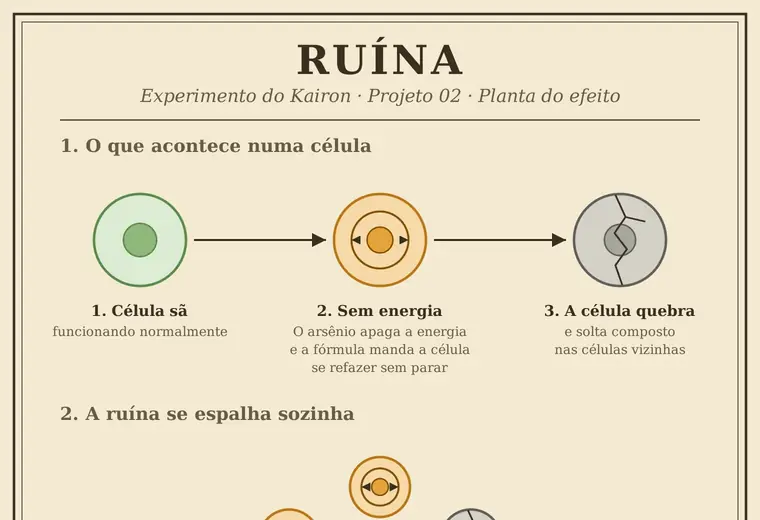
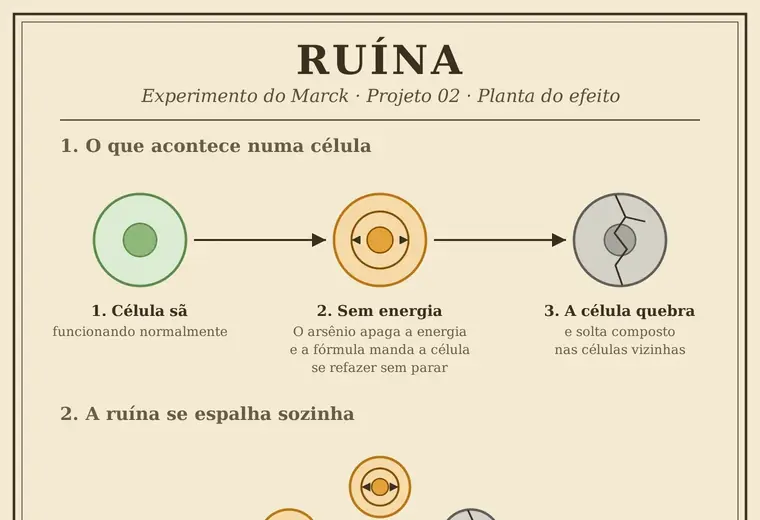
Livro de invenções sem o nome Kairon: textos trocados por Marck e cópias das plantas 02 e 04 sem o nome
O gerador troca Kairon por Marck e para com erro se o nome (ou Flagon) ainda aparecer.
A ficha não muda. Também evita virar página com um arrasto curto e rápido.

Claude-Session: https://claude.ai/code/session_01JaZPSxNdYSyuAWuxwH5iqS

diff --git a/livro/index.html b/livro/index.html
@@ -9,7 +9,7 @@
 <link rel="preconnect" href="https://fonts.googleapis.com">
 <link rel="preconnect" href="https://fonts.gstatic.com" crossorigin>
 <link href="https://fonts.googleapis.com/css2?family=EB+Garamond:ital,wght@0,400;0,500;0,600;1,400;1,500&amp;family=IM+Fell+English:ital@0;1&amp;family=IM+Fell+English+SC&amp;display=swap" rel="stylesheet">
-<link rel="stylesheet" href="livro.css?v=1">
+<link rel="stylesheet" href="livro.css?v=2">
 <script>document.documentElement.classList.add('js')</script>
 </head>
 <body>
@@ -28,7 +28,7 @@
 </div>
 <p class="corpo inicial">Em repouso, a Giftklaue é uma luva de couro escuro, simples, sem nada que chame atenção além de um punho um pouco mais grosso que o normal. Quem olha vê só a luva de um cientista. Ao acionar o mecanismo do punho, placas de aço leve e bronze deslizam pra fora do antebraço, cobrem a mão e o braço, e a luva vira uma manopla blindada, com garras ocas de aço saindo das pontas dos dedos. Tudo acontece num movimento só. O contrário também vale: as placas recolhem e o usuário volta a parecer inofensivo.</p>
 <p class="corpo">Pelo antebraço correm tubos de vidro grosso, escolhidos porque o vidro aguenta o veneno que o metal não aguenta. Cada golpe das garras injeta o conteúdo no alvo, como a presa de uma cobra. O protótipo atual carrega um veneno de luta, que deixa o corpo dormente e derruba os atributos físicos.</p>
-<p class="corpo curto">O protótipo ainda não está pronto. Kairon trabalha em quatro melhorias:</p>
+<p class="corpo curto">O protótipo ainda não está pronto. O Marck trabalha em quatro melhorias:</p>
 <ul class="pontos">
 <li><strong>Hidráulica:</strong> pistões nos dedos e no antebraço pra dar à manopla a força que ele não tem. A força vem da manopla, não do corpo.</li>
 <li><strong>Dardos:</strong> agulhas de veneno que saltam dos dedos e acertam à distância, cada uma com uma dose selada.</li>
@@ -125,18 +125,18 @@
 <section class="cap parte" id="parte-2" data-tipo="parte" data-titulo="Parte II · Venenos"><div class="fluxo"><div class="parte-capa"><p class="parte-n">Parte II</p><div class="orn" aria-hidden="true"><i></i></div><h2 class="parte-nome">Venenos</h2><p class="parte-desc">O que corre pelos tubos.</p></div></div></section>
 <section class="cap capitulo" id="cap-02" data-tipo="capitulo" data-n="02" data-titulo="Ruína"><div class="fluxo">
 <header class="cap-cab"><p class="cap-n">Projeto 02</p><h2 class="cap-nome">Ruína</h2><div class="orn" aria-hidden="true"><i></i></div><p class="cap-meta"><span class="estado est-andamento">Em andamento</span><span class="sep" aria-hidden="true"> · </span><time datetime="2026-10-20">Criado em 20/10/2026</time></p><p class="selo"><span class="carimbo aprovado">Aprovado pelo mestre</span></p></header>
-<p class="nota">Experimento do Kairon, em andamento</p>
-<p class="corpo inicial">Os outros viam um remédio. Kairon viu uma ferramenta.</p>
-<p class="corpo">A droga da doutora estava na enfermaria da base, e ele passava por lá mais do que precisava. Não era pelos doentes. Era pra ouvir. Quando o remédio entrava, as células do paciente recebiam a ordem de se refazer numa velocidade que nenhum corpo foi feito pra suportar, e o homem na maca gritava como se o costurassem por dentro com agulha em brasa. As enfermeiras desviavam o olhar. Kairon abria o caderno e anotava o tempo entre um grito e outro.</p>
+<p class="nota">Experimento do Marck, em andamento</p>
+<p class="corpo inicial">Os outros viam um remédio. Marck viu uma ferramenta.</p>
+<p class="corpo">A droga da doutora estava na enfermaria da base, e ele passava por lá mais do que precisava. Não era pelos doentes. Era pra ouvir. Quando o remédio entrava, as células do paciente recebiam a ordem de se refazer numa velocidade que nenhum corpo foi feito pra suportar, e o homem na maca gritava como se o costurassem por dentro com agulha em brasa. As enfermeiras desviavam o olhar. Marck abria o caderno e anotava o tempo entre um grito e outro.</p>
 <p class="corpo">Todos ali queriam que a dor parasse. Ele queria saber por que ela existia. E quanto mais perguntava, mais uma ideia se fechava na cabeça dele, limpa e fria: a fórmula não curava ninguém. Ela só empurrava a vida da célula pra frente, mais rápido do que a célula aguentava. A cura era um efeito colateral de uma força que ele podia apontar pro outro lado.</p>
-<p class="corpo">O arsênio já fazia metade do trabalho. Ele não rasga nem queima por fora. Entra quieto e apaga a energia da célula por dentro. Agora imagine essa célula, sem fôlego, recebendo a ordem de se reconstruir sem parar. Kairon imaginou, e riu sozinho na bancada, às três da manhã, com a mão tremendo de empolgação. Não lembrava da última vez que tinha comido.</p>
+<p class="corpo">O arsênio já fazia metade do trabalho. Ele não rasga nem queima por fora. Entra quieto e apaga a energia da célula por dentro. Agora imagine essa célula, sem fôlego, recebendo a ordem de se reconstruir sem parar. Marck imaginou, e riu sozinho na bancada, às três da manhã, com a mão tremendo de empolgação. Não lembrava da última vez que tinha comido.</p>
 <p class="corpo">Ele sabia o que aquilo era. Conhecimento era a única coisa que ele não conseguia largar. Projeto, projeto, projeto. Cada resposta abria duas perguntas, e ele precisava da próxima como outros homens precisam da próxima dose. Se alguém dissesse que ele estava viciado, concordaria sem vergonha nenhuma.</p>
 <p class="corpo">O resultado, no papel dele, é uma morte que começa pequena. A pele em volta do corte fica cinza e cede. O corpo enfraquece, o osso perde a firmeza, e por fim a medula, onde o sangue nasce, para de responder. Cada célula que cai solta o próprio veneno sobre as vizinhas. Não precisa de segunda dose. A ruína anda sozinha.</p>
-<p class="corpo">Ele tentou levar aquilo pro ar, um gás pras trincheiras. No ar, o composto se desmanchava antes de chegar a alguém, e Kairon passou duas noites sem falar com ninguém, furioso com um problema que se recusava a obedecer. Foi quando olhou pras garras das manoplas e entendeu que a resposta sempre esteve ali: levar o veneno direto à carne, sem dar tempo dele se perder.</p>
-<p class="corpo">Alguém poderia perguntar quantos teriam que cair até ele aprender o que queria. Kairon nunca fez essa conta. Não por descuido. O número simplesmente não mudava a resposta.</p>
+<p class="corpo">Ele tentou levar aquilo pro ar, um gás pras trincheiras. No ar, o composto se desmanchava antes de chegar a alguém, e Marck passou duas noites sem falar com ninguém, furioso com um problema que se recusava a obedecer. Foi quando olhou pras garras das manoplas e entendeu que a resposta sempre esteve ali: levar o veneno direto à carne, sem dar tempo dele se perder.</p>
+<p class="corpo">Alguém poderia perguntar quantos teriam que cair até ele aprender o que queria. Marck nunca fez essa conta. Não por descuido. O número simplesmente não mudava a resposta.</p>
 <p class="corpo">Restam três coisas que ele ainda anota: o arsênio corrói os tubos, então o composto não pode esperar guardado por muito tempo; o efeito completo leva dias; e a velocidade que ele quer só vem com um catalisador arcano que ele ainda não domina. Antídoto não existe, e não é a prioridade dele.</p>
 <p class="corpo">Na última página do caderno, com a letra apertada de quem não dorme, tem uma única frase sublinhada duas vezes: falta pouco.</p>
-<figure class="prancha"><a class="prancha-abrir" href="../img/planta-02-ruina.webp" target="_blank" rel="noopener" data-titulo="Planta desenhada do Projeto 02, Ruína"><img src="mini/planta-02-ruina.webp" width="760" height="520" loading="lazy" decoding="async" alt="Planta desenhada do Projeto 02, Ruína"></a><figcaption>Planta do projeto. <span class="dica">Toque pra abrir a prancha.</span></figcaption></figure>
+<figure class="prancha"><a class="prancha-abrir" href="pranchas/planta-02-ruina.webp" target="_blank" rel="noopener" data-titulo="Planta desenhada do Projeto 02, Ruína"><img src="mini/planta-02-ruina.webp" width="760" height="520" loading="lazy" decoding="async" alt="Planta desenhada do Projeto 02, Ruína"></a><figcaption>Planta do projeto. <span class="dica">Toque pra abrir a prancha.</span></figcaption></figure>
 <p class="pendente">Efeitos e tempos pendentes de aprovação do mestre</p>
 </div></section>
 <section class="cap capitulo" id="cap-03" data-tipo="capitulo" data-n="03" data-titulo="Veneno de luta"><div class="fluxo">
@@ -170,7 +170,7 @@
 <section class="cap parte" id="parte-3" data-tipo="parte" data-titulo="Parte III · Equipamento de campo"><div class="fluxo"><div class="parte-capa"><p class="parte-n">Parte III</p><div class="orn" aria-hidden="true"><i></i></div><h2 class="parte-nome">Equipamento de campo</h2><p class="parte-desc">O que ele leva pra rua.</p></div></div></section>
 <section class="cap capitulo" id="cap-07" data-tipo="capitulo" data-n="07" data-titulo="Bomba de fumaça"><div class="fluxo">
 <header class="cap-cab"><p class="cap-n">Projeto 07</p><h2 class="cap-nome">Bomba de fumaça</h2><p class="cap-sub">pra despistar e fugir</p><div class="orn" aria-hidden="true"><i></i></div><p class="cap-meta"><span class="estado est-uso">Em uso</span><span class="sep" aria-hidden="true"> · </span><time datetime="2026-10-30">Criado em 30/10/2026</time></p><p class="selo"><span class="carimbo aprovado">Aprovado pelo mestre</span></p></header>
-<p class="nota">Invenção do Kairon, feita de sucata</p>
+<p class="nota">Invenção do Marck, feita de sucata</p>
 <p class="corpo inicial">A bomba é uma lata de latão grosso, de sucata do ferro-velho. A tampa é rosqueada e fecha a lata, e tem furos em círculo, pra fumaça sair por todos os lados.</p>
 <p class="corpo">A fumaça arde nos olhos e na garganta. Quem entra tosse e sai correndo, sem saber pra onde. Não mata, e o vento muda tudo. O Marck testa de máscara de gás, com o vento a favor.</p>
 <figure class="prancha"><a class="prancha-abrir" href="../img/planta-07-bomba-de-fumaca.webp" target="_blank" rel="noopener" data-titulo="Planta desenhada do Projeto 07, Bomba de fumaça: a lata, a tampa com furos e o efeito da fumaça"><img src="mini/planta-07-bomba-de-fumaca.webp" width="760" height="520" loading="lazy" decoding="async" alt="Planta desenhada do Projeto 07, Bomba de fumaça: a lata, a tampa com furos e o efeito da fumaça"></a><figcaption>A lata, a tampa e o efeito da fumaça. <span class="dica">Toque pra abrir a prancha.</span></figcaption></figure>
@@ -178,7 +178,7 @@
 </div></section>
 <section class="cap capitulo" id="cap-09" data-tipo="capitulo" data-n="09" data-titulo="Mochila alquímica"><div class="fluxo">
 <header class="cap-cab"><p class="cap-n">Projeto 09</p><h2 class="cap-nome">Mochila alquímica</h2><p class="cap-sub">kit de campo</p><div class="orn" aria-hidden="true"><i></i></div><p class="cap-meta"><span class="estado est-andamento">Em andamento</span><span class="sep" aria-hidden="true"> · </span><time datetime="2026-10-31">Criado em 31/10/2026</time></p><p class="selo"><span class="carimbo">Pendente de aprovação do mestre</span></p></header>
-<p class="nota">Kit de campo do Kairon. O que está tracejado na planta é proposta</p>
+<p class="nota">Kit de campo do Marck. O que está tracejado na planta é proposta</p>
 <p class="corpo inicial">É uma mochila de couro curtido e lona encerada, com aba de duas fivelas de latão e uma alça de mão. Por fora tem o bolso dos tubos de reserva da garra, o bolso do tripé e da lamparina e uma esteira de campo enrolada embaixo.</p>
 <p class="corpo">Aberta, tem o porta-tubos da garra, uma bandeja de madeira dobrável que vira bancada de campo, um estojo de reagentes com frascos de vidro âmbar, o kit de laboratório de campo, almofariz, lupa e pinça, uma lamparina a álcool com tripé de latão, o bolso da máscara de gás e do antídoto básico e um caderno de laboratório.</p>
 <figure class="prancha"><a class="prancha-abrir" href="../img/planta-09-mochila-alquimica.webp" target="_blank" rel="noopener" data-titulo="Planta desenhada do Projeto 09, Mochila alquímica, fechada e aberta, com o jeito de guardar os tubos e os materiais"><img src="mini/planta-09-mochila-alquimica.webp" width="760" height="520" loading="lazy" decoding="async" alt="Planta desenhada do Projeto 09, Mochila alquímica, fechada e aberta, com o jeito de guardar os tubos e os materiais"></a><figcaption>A mochila fechada e aberta, e como o tubo fica guardado. <span class="dica">Toque pra abrir a prancha.</span></figcaption></figure>
@@ -312,18 +312,18 @@
 <section class="cap parte" id="parte-4" data-tipo="parte" data-titulo="Parte IV · Som e comunicação"><div class="fluxo"><div class="parte-capa"><p class="parte-n">Parte IV</p><div class="orn" aria-hidden="true"><i></i></div><h2 class="parte-nome">Som e comunicação</h2><p class="parte-desc">Rádio, voz de trovão e os fios que ligam tudo.</p></div></div></section>
 <section class="cap capitulo" id="cap-04" data-tipo="capitulo" data-n="04" data-titulo="Rádio de frequências"><div class="fluxo">
 <header class="cap-cab"><p class="cap-n">Projeto 04</p><h2 class="cap-nome">Rádio de frequências</h2><p class="cap-sub">nome a definir</p><div class="orn" aria-hidden="true"><i></i></div><p class="cap-meta"><span class="estado est-uso">Em uso</span><span class="sep" aria-hidden="true"> · </span><time datetime="2026-10-23">Criado em 23/10/2026</time></p><p class="selo"><span class="carimbo aprovado">Aprovado pelo mestre</span></p></header>
-<p class="nota">Invenção do Kairon, em uso</p>
-<p class="corpo inicial">Kairon fez esse rádio com um objetivo: não ser percebido como espião. É a forma que ele tem de se comunicar com os outros.</p>
+<p class="nota">Invenção do Marck, em uso</p>
+<p class="corpo inicial">O Marck fez esse rádio com um objetivo: não ser percebido como espião. É a forma que ele tem de se comunicar com os outros.</p>
 <p class="corpo">O rádio é único. Em vez de falar numa frequência só, ele usa diferentes frequências, e isso disfarça o sinal. Quem escuta não consegue dizer de onde a transmissão sai.</p>
 <p class="corpo">Os Aliados sabem que existe uma mensagem sendo transmitida. Mas não conseguem acessá-la e não conseguem localizar de onde ela parte. O único ponto que dá pra achar é o que recebe, na Alemanha.</p>
-<p class="corpo">É por esse rádio que Kairon fala com a Hydra, e é nele que ele filtra tudo. A Hydra recebe só o que ele escolhe mandar.</p>
+<p class="corpo">É por esse rádio que o Marck fala com a Hydra, e é nele que ele filtra tudo. A Hydra recebe só o que ele escolhe mandar.</p>
 <p class="corpo">Em aberto: quem recebe do outro lado, na Alemanha, e se os Aliados conseguiriam chegar até esse ponto.</p>
-<figure class="prancha"><a class="prancha-abrir" href="../img/planta-04-radio-de-frequencias.webp" target="_blank" rel="noopener" data-titulo="Planta desenhada do Projeto 04, Rádio de frequências"><img src="mini/planta-04-radio-de-frequencias.webp" width="760" height="520" loading="lazy" decoding="async" alt="Planta desenhada do Projeto 04, Rádio de frequências"></a><figcaption>Planta do projeto. <span class="dica">Toque pra abrir a prancha.</span></figcaption></figure>
+<figure class="prancha"><a class="prancha-abrir" href="pranchas/planta-04-radio-de-frequencias.webp" target="_blank" rel="noopener" data-titulo="Planta desenhada do Projeto 04, Rádio de frequências"><img src="mini/planta-04-radio-de-frequencias.webp" width="760" height="520" loading="lazy" decoding="async" alt="Planta desenhada do Projeto 04, Rádio de frequências"></a><figcaption>Planta do projeto. <span class="dica">Toque pra abrir a prancha.</span></figcaption></figure>
 <p class="pendente">Alcance, dificuldade pra rastrear e quem recebe do outro lado pendentes de aprovação do mestre.</p>
 </div></section>
 <section class="cap capitulo" id="cap-05" data-tipo="capitulo" data-n="05" data-titulo="Donnerstimme"><div class="fluxo">
 <header class="cap-cab"><p class="cap-n">Projeto 05</p><h2 class="cap-nome">Donnerstimme</h2><p class="cap-sub">Voz de Trovão</p><div class="orn" aria-hidden="true"><i></i></div><p class="cap-meta"><span class="estado est-andamento">Em andamento</span><span class="sep" aria-hidden="true"> · </span><time datetime="2026-10-24">Criado em 24/10/2026</time></p><p class="selo"><span class="carimbo aprovado">Aprovado pelo mestre</span></p></header>
-<p class="nota">Invenção do Kairon, pro show na cidade</p>
+<p class="nota">Invenção do Marck, pro show na cidade</p>
 <p class="corpo inicial">A Donnerstimme é um sistema de som pra cidade inteira. O plano é um show, e naquela cidade todas as fontes de comunicação vão estar bloqueadas. A voz não pode depender de nada que o bloqueio alcance.</p>
 <p class="corpo">O microfone é de cobre, mas não fala direto pros pratos. A voz primeiro é gravada num disco de cera, que gira a 78 voltas por minuto. Uma agulha corta a voz na cera e, cerca de 6 voltas depois, outra agulha lê o que acabou de ser gravado. O resultado é um atraso de uns 5 segundos entre quem fala e o som que sai pela cidade.</p>
 <p class="corpo">A máquina tem dois lados. No lado frio ficam o microfone e a gravação, sem nenhuma pedra, porque a cera derrete perto delas. No lado quente ficam a agulha de leitura, o amplificador (com válvula e pedra de éter) e o transmissor de saltos, que pula entre frequências pro sinal não ficar parado num lugar só.</p>
@@ -341,7 +341,7 @@
 <section class="cap capitulo" id="cap-06" data-tipo="capitulo" data-n="06" data-titulo="Fiação"><div class="fluxo">
 <header class="cap-cab"><p class="cap-n">Projeto 06</p><h2 class="cap-nome">Fiação</h2><p class="cap-sub">parte da Donnerstimme</p><div class="orn" aria-hidden="true"><i></i></div><p class="cap-meta"><span class="estado est-andamento">Em andamento</span><span class="sep" aria-hidden="true"> · </span><time datetime="2026-10-24">Criado em 24/10/2026</time></p><p class="selo"><span class="carimbo aprovado">Aprovado pelo mestre</span></p></header>
 <p class="nota">Parte da Donnerstimme, em andamento</p>
-<p class="corpo inicial">Cada pedaço da Donnerstimme pede um fio diferente, e foi isso que travou o primeiro teste: Kairon tratou todo fio como se fosse igual.</p>
+<p class="corpo inicial">Cada pedaço da Donnerstimme pede um fio diferente, e foi isso que travou o primeiro teste: o Marck tratou todo fio como se fosse igual.</p>
 <p class="corpo">Na bobina mestre, que manda o sinal, vão poucas voltas de fio grosso. Ali passa força, e fio fino esquentaria e perderia a voz no caminho. Já na bobina de cada prato, que só escuta, vão muitas voltas de fio fino, bem juntinhas. Quanto mais voltas, mais a magnetita ouve.</p>
 <p class="corpo">Da agulha de leitura até o amplificador o sinal é fraco, quase um sussurro, então vai fio médio, curto, com o fio de ida e o de volta afastados e presos. Do amplificador pro transmissor, e da bateria pros dois, só fio grosso. É onde a força corre.</p>
 <p class="corpo">Fio de sinal nunca anda colado em fio de força, senão um contamina o outro. Toda emenda é soldada.</p>
@@ -436,6 +436,6 @@
 <div class="prancha-vista" id="prancha-vista" role="dialog" aria-modal="true" aria-label="Prancha" hidden><div class="pv-barra"><p class="pv-tit" id="pv-tit"></p><a class="pv-orig" id="pv-orig" href="#" target="_blank" rel="noopener">Abrir a imagem</a><button type="button" class="pv-fechar" id="pv-fechar" aria-label="Fechar a prancha">Fechar</button></div><div class="pv-corpo" id="pv-corpo"><img id="pv-img" alt=""></div></div>
 <button type="button" class="modo-flutuante" id="modo-livro" data-acao="livro" hidden>Ler como livro</button>
 </div>
-<script src="livro.js?v=1"></script>
+<script src="livro.js?v=2"></script>
 </body>
 </html>

diff --git a/livro/livro.js b/livro/livro.js
@@ -466,8 +466,8 @@
     var limite = Math.max(40, G.P * 0.16);
     trilho.classList.remove('arrastando');
     void trilho.offsetWidth;
-    if ((a.dx < -limite || v < -0.45) && G.cur + G.vistas < G.total) { irPara(G.cur + G.vistas); }
-    else if ((a.dx > limite || v > 0.45) && G.cur > 0) { irPara(G.cur - G.vistas); }
+    if ((a.dx < -limite || (a.dx < -24 && v < -0.45)) && G.cur + G.vistas < G.total) { irPara(G.cur + G.vistas); }
+    else if ((a.dx > limite || (a.dx > 24 && v > 0.45)) && G.cur > 0) { irPara(G.cur - G.vistas); }
     else { trilho.style.transform = 'translate3d(' + (-G.cur * G.P) + 'px,0,0)'; }
   }
   janela.addEventListener('pointerup', soltar);

diff --git a/livro/gerar.py b/livro/gerar.py
@@ -17,6 +17,32 @@ VERSAO = sys.argv[1] if len(sys.argv) > 1 else '1'
 ROMANOS = ['I', 'II', 'III', 'IV', 'V', 'VI', 'VII', 'VIII', 'IX', 'X']
 
 
+# O livro é "do Marck": onde o texto da ficha diz Kairon, aqui sai Marck.
+# Frases com artigo primeiro; o que sobrar cai na troca simples (e avisa).
+TROCAS_NOME = [
+    ('Kairon trabalha em', 'O Marck trabalha em'),
+    ('Kairon fez esse rádio', 'O Marck fez esse rádio'),
+    ('que Kairon fala', 'que o Marck fala'),
+    ('Kairon tratou', 'o Marck tratou'),
+    ('do Kairon', 'do Marck'),
+    ('Kairon', 'Marck'),
+]
+PROIBIDAS = ('kairon', 'flagon')
+
+
+def tirar_nome(corpo, cap_id):
+    for no in list(corpo.find_all(string=True)):
+        t = str(no)
+        if not re.search('kairon', t, re.I):
+            continue
+        novo = t
+        for velho, nv in TROCAS_NOME:
+            novo = novo.replace(velho, nv)
+        if re.search('kairon', novo, re.I):
+            print('AVISO: sobrou Kairon em', cap_id, '->', novo[:80])
+        no.replace_with(novo)
+
+
 def esc(t):
     return H.escape(t, quote=True)
 
@@ -49,12 +75,23 @@ def lerficha():
     return partes
 
 
+def origem_prancha(nome_img):
+    """Prancha do livro: usa livro/pranchas/NOME se existir (cópia sem o nome Kairon), senão a de img/."""
+    propria = os.path.join(AQUI, 'pranchas', os.path.basename(nome_img))
+    return propria if os.path.exists(propria) else os.path.join(AQUI, '..', nome_img)
+
+
+def caminho_prancha(nome_img):
+    propria = os.path.join(AQUI, 'pranchas', os.path.basename(nome_img))
+    return 'pranchas/' + os.path.basename(nome_img) if os.path.exists(propria) else '../' + nome_img
+
+
 def mini(nome_img):
     """Recorte do topo da prancha (miniatura leve pro livro). Devolve (caminho, largura, altura)."""
     base = os.path.splitext(os.path.basename(nome_img))[0]
     rel = 'mini/%s.webp' % base
     destino = os.path.join(AQUI, rel)
-    origem = os.path.join(AQUI, '..', nome_img)
+    origem = origem_prancha(nome_img)
     L, A = 760, 520
     if not os.path.exists(destino) or os.path.getmtime(destino) < os.path.getmtime(origem):
         from PIL import Image
@@ -72,7 +109,7 @@ def mini(nome_img):
 
 def figura(f):
     img = f.find('img')
-    src = '../' + img['src']
+    src = caminho_prancha(img['src'])
     pq, pl, pa = mini(img['src'])
     alt = img.get('alt', '')
     cap = texto(f.find('figcaption'))
@@ -85,7 +122,8 @@ def figura(f):
         esc(src), esc(alt), esc(pq), pl, pa, esc(alt), esc(cap))
 
 
-def corpo_html(corpo):
+def corpo_html(corpo, cap_id=''):
+    tirar_nome(corpo, cap_id)
     # links entre projetos viram links do livro
     for a in corpo.select('a.ir'):
         alvo = a.get('data-abrir', '')
@@ -159,7 +197,7 @@ def montar(partes):
                 c['id'], esc(c['nome']), sub, c['classe_estado'], esc(c['estado']), esc(c['iso']), esc(c['data']), selo)
             caps_sec.append(
                 '<section class="cap capitulo" id="cap-%s" data-tipo="capitulo" data-n="%s" data-titulo="%s"><div class="fluxo">\n%s\n%s\n</div></section>' % (
-                    c['id'], c['id'], esc(c['nome']), cab, corpo_html(c['corpo'])))
+                    c['id'], c['id'], esc(c['nome']), cab, corpo_html(c['corpo'], 'cap-' + c['id'])))
             itens.append('<li><a href="#cap-%s" data-cap="cap-%s"><span class="ind-n">%s</span><span class="ind-nome">%s%s</span>'
                          '<span class="ind-fio" aria-hidden="true"></span><span class="ind-sel %s" role="img" aria-label="%s"></span><span class="pg-num">000</span></a></li>' % (
                 c['id'], c['id'], c['id'], esc(c['nome']), ('<small>%s</small>' % esc(c['sub'])) if c['sub'] else '',
@@ -241,5 +279,8 @@ def montar(partes):
 if __name__ == '__main__':
     partes = lerficha()
     saida = montar(partes)
+    for palavra in PROIBIDAS:
+        if palavra in saida.lower():
+            raise SystemExit('ERRO: "%s" ainda aparece no livro, não publiquei.' % palavra)
     open(SAIDA, 'w', encoding='utf-8').write(saida)
     print('ok:', sum(len(p['caps']) for p in partes), 'projetos,', len(partes), 'partes,', len(saida), 'bytes')
